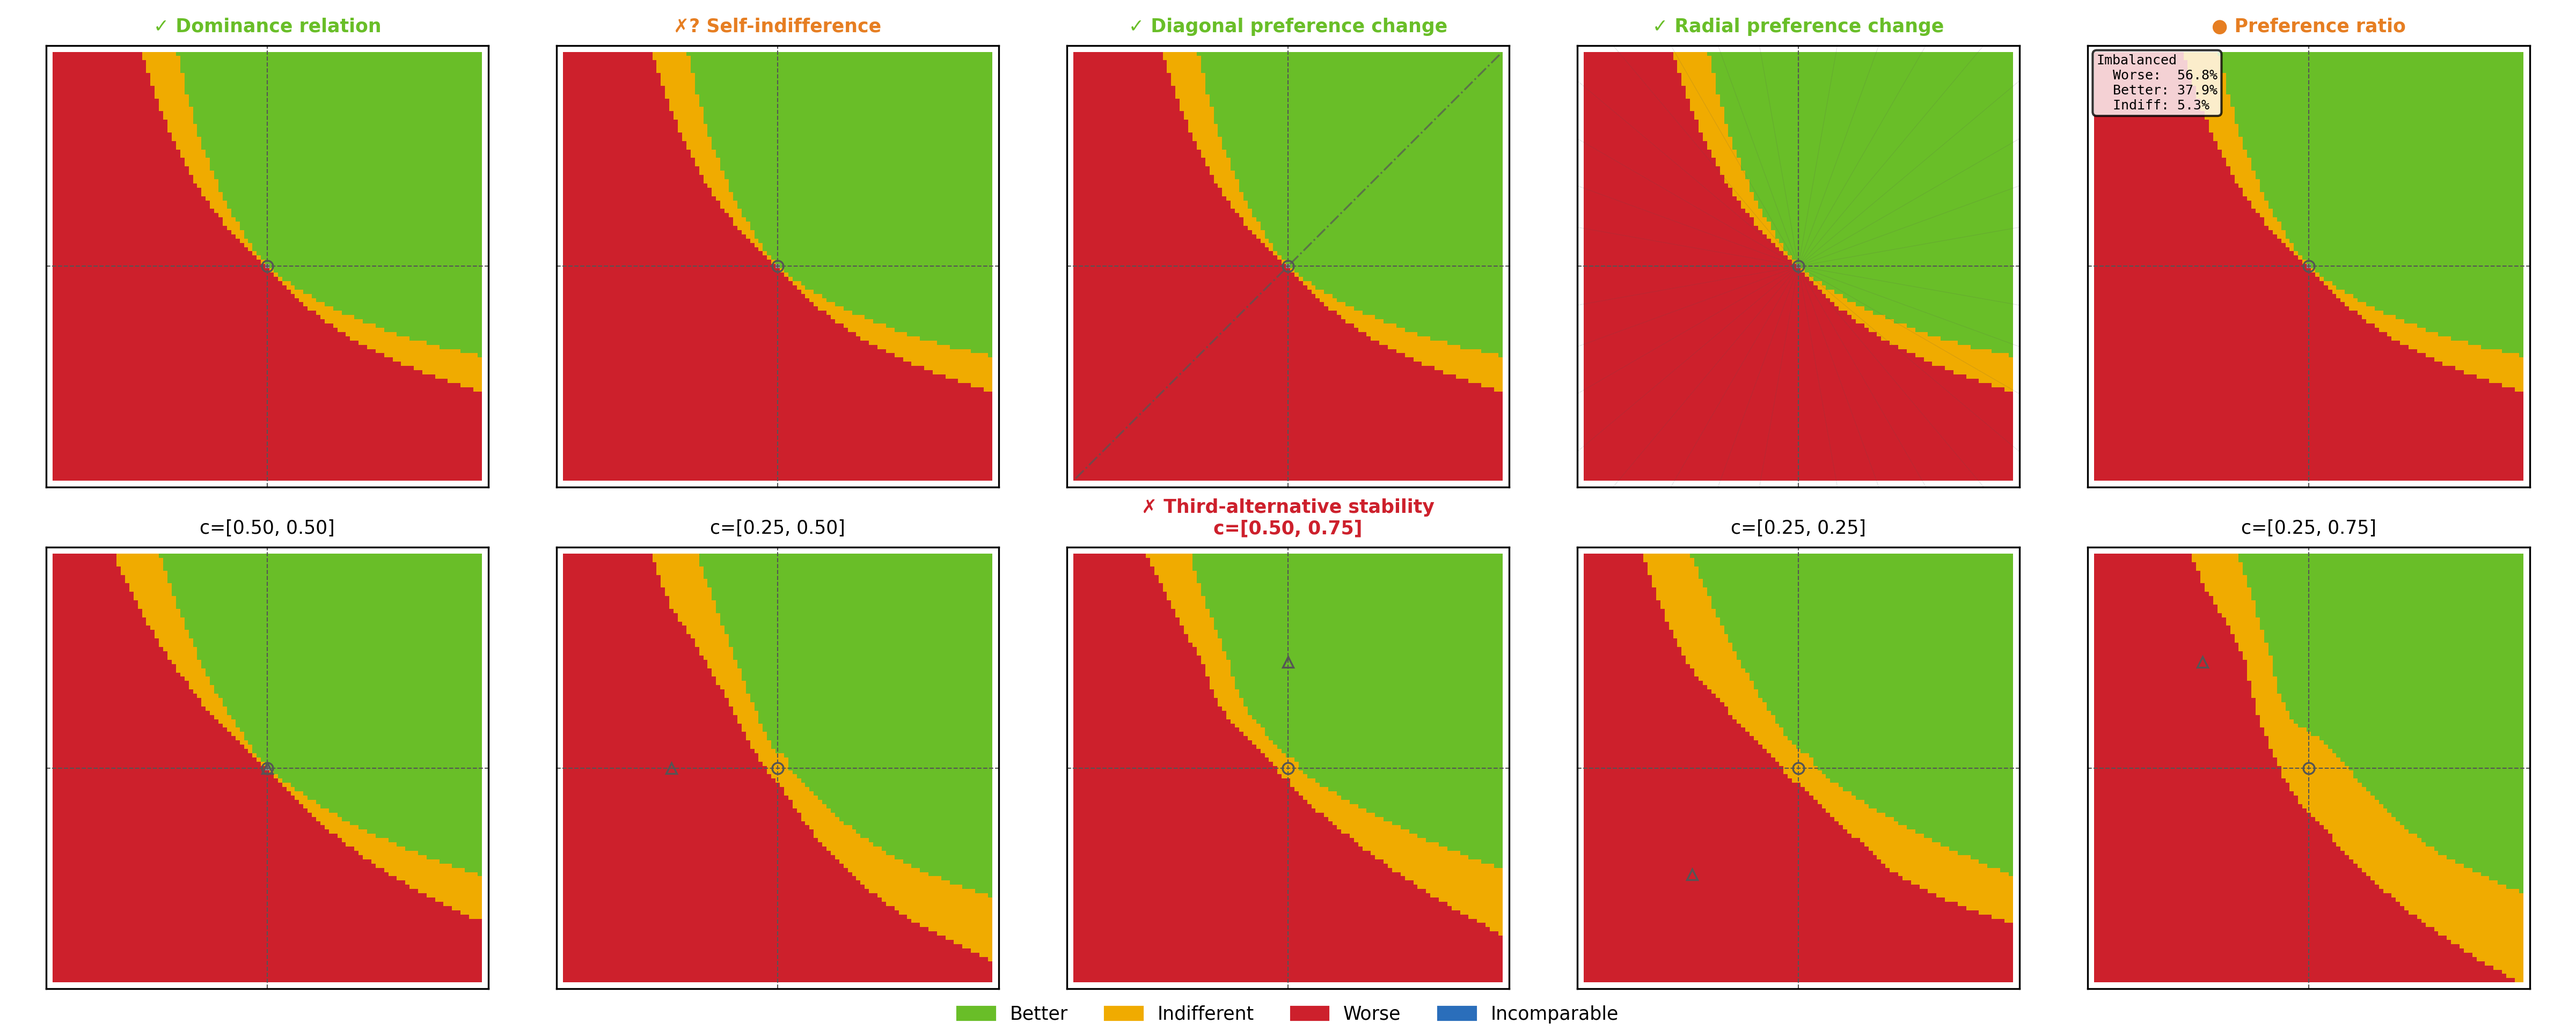
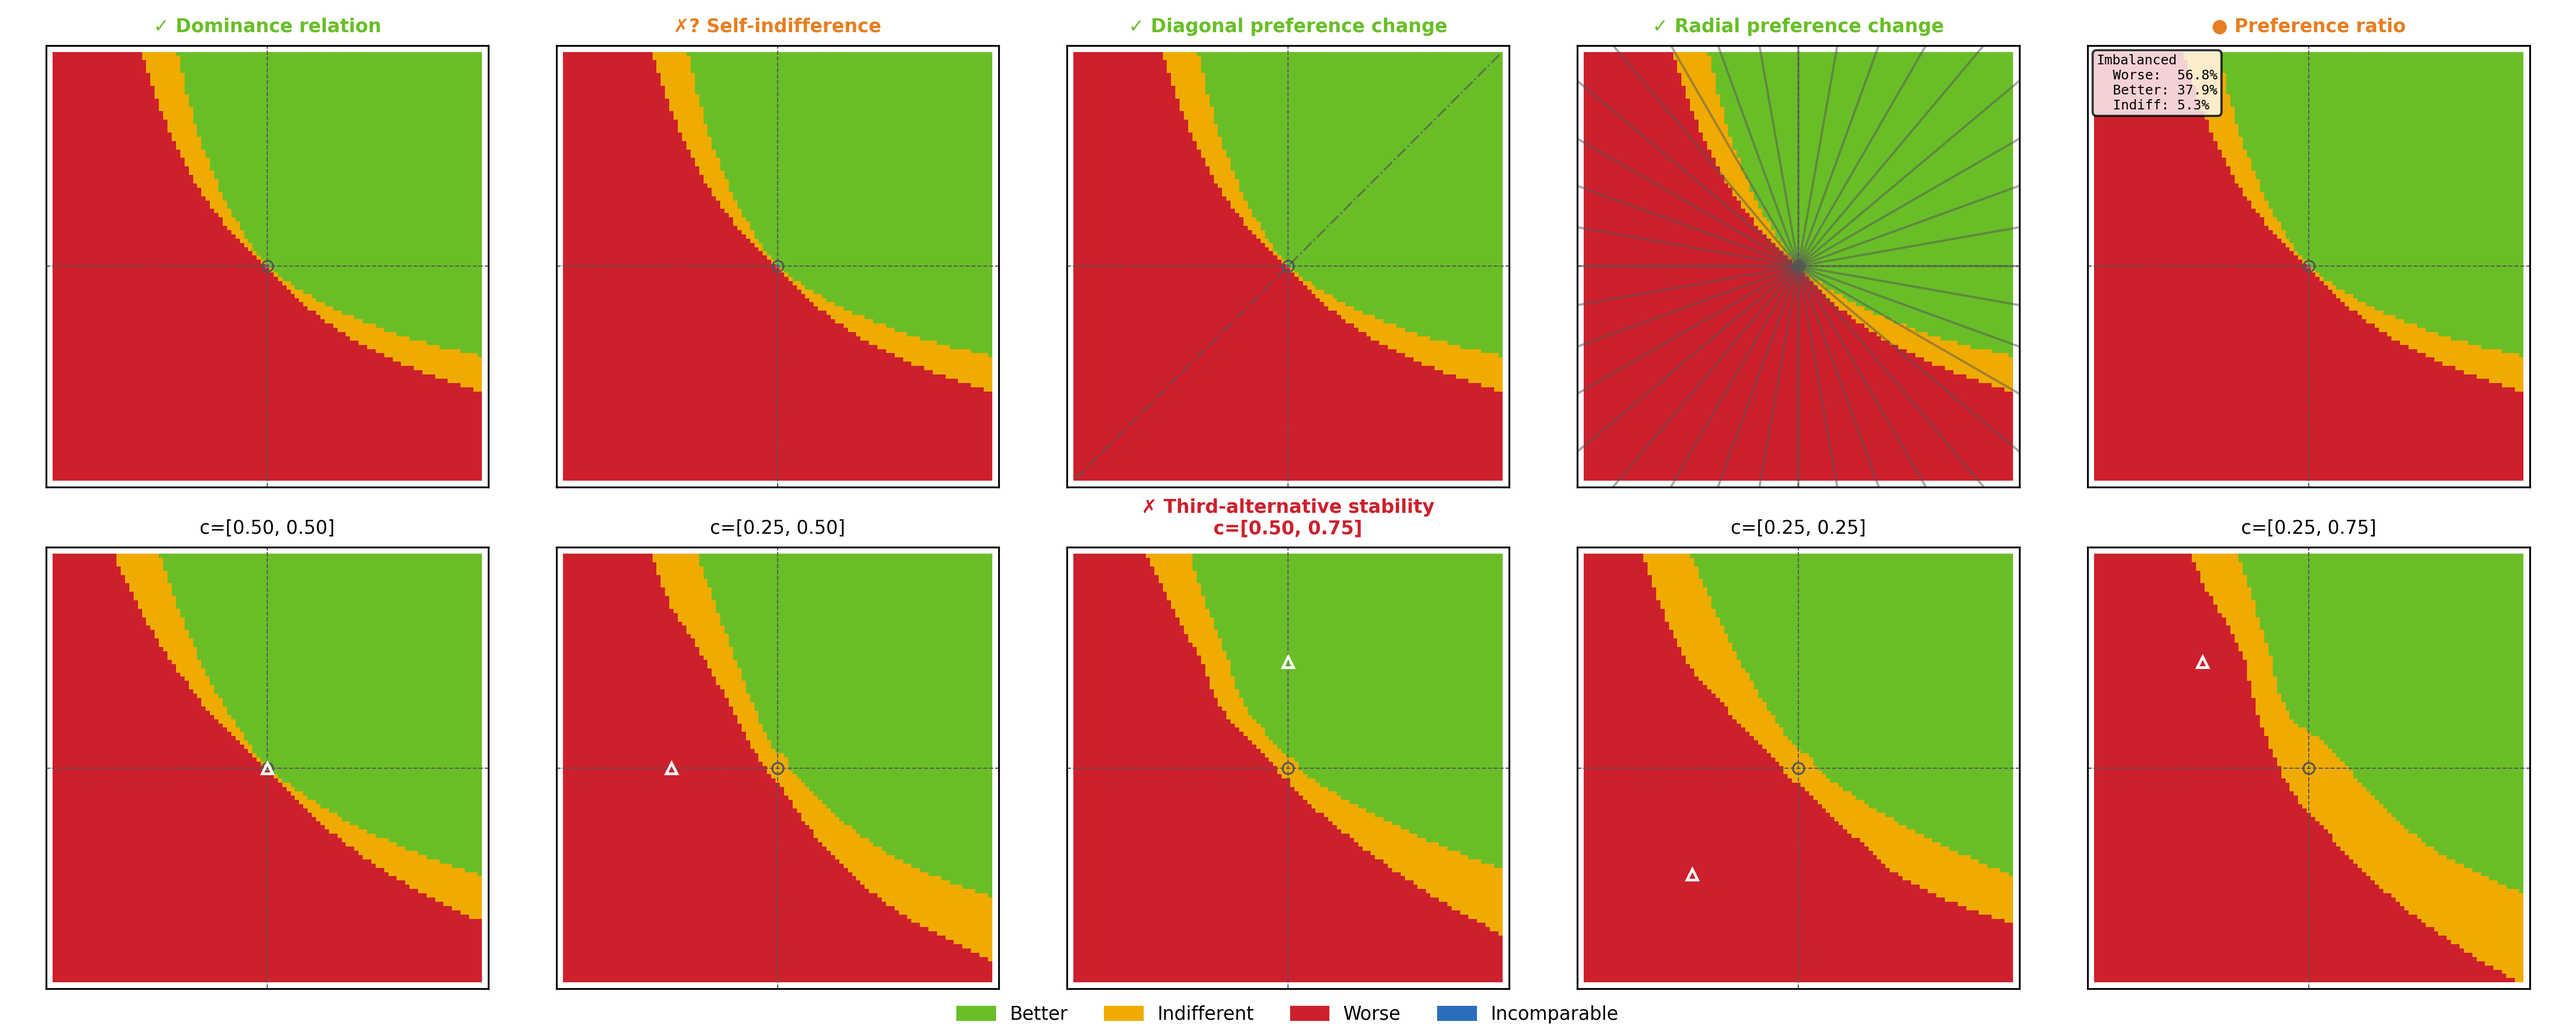
Protocol plotting improvements.

Changed region(s): [[0.6562, 0.125, 0.75, 0.4062]]

diff --git a/src/mcda_vista/plotting.py b/src/mcda_vista/plotting.py
@@ -143,8 +143,8 @@ def _draw_vista_on_ax(
             marker="^",
             markersize=5,
             markerfacecolor="none",
-            markeredgecolor="#555555",
-            markeredgewidth=0.8,
+            markeredgecolor="#FFFFFF",
+            markeredgewidth=1.2,
             zorder=5,
         )
 
@@ -171,10 +171,7 @@ def _shared_legend_handles() -> list[mpatches.Patch]:
     Always returns all four entries so the legend is stable even when some
     categories are absent from a particular plot.
     """
-    return [
-        mpatches.Patch(color=rel.color, label=rel.label)
-        for rel in _LEGEND_ORDER
-    ]
+    return [mpatches.Patch(color=rel.color, label=rel.label) for rel in _LEGEND_ORDER]
 
 
 def _finalize_figure(fig: Figure, *, title: str | None, show_legend: bool) -> None:
@@ -379,7 +376,10 @@ def plot_vista_comparison(
     actual_ncols = min(n, ncols)
 
     if figsize is None:
-        figsize = (COMPARISON_FIGURE_SCALE * actual_ncols, COMPARISON_FIGURE_SCALE * nrows)
+        figsize = (
+            COMPARISON_FIGURE_SCALE * actual_ncols,
+            COMPARISON_FIGURE_SCALE * nrows,
+        )
 
     fig, axes = plt.subplots(nrows, actual_ncols, figsize=figsize, squeeze=False)
 

diff --git a/src/mcda_vista/protocol.py b/src/mcda_vista/protocol.py
@@ -808,8 +808,8 @@ def _annotate_radial(ax: Axes, check: CheckResult, result: VistaResult) -> None:
         deg = float(np.degrees(angle))
         is_violating = any(abs(deg - v) < 1.0 for v in violating)
         color = "#cd202c" if is_violating else "#555555"
-        alpha = 0.5 if is_violating else 0.15
-        lw = 0.8 if is_violating else 0.3
+        alpha = 0.5 if is_violating else 0.5
+        lw = 2 if is_violating else 1
 
         dx = np.cos(angle) * 1.5
         dy = np.sin(angle) * 1.5

diff --git a/README.md b/README.md
@@ -41,7 +41,7 @@ pip install .[app]
 For development (linting, type-checking, tests):
 
 ```bash
-pip install -e ".[dev]"
+pip install -e .[dev]
 ```
 
 ---
